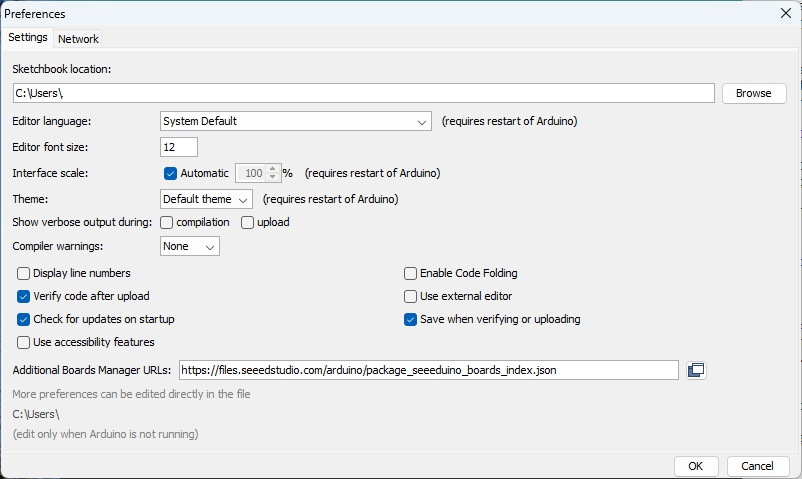
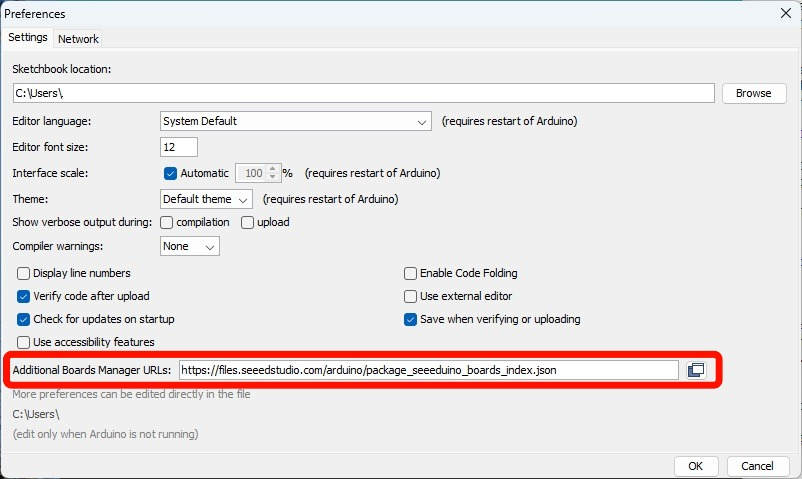
Added ports photo, added highlight for JSON location

Changed region(s): [[0.0, 0.7307, 0.904, 0.8184]]

diff --git a/docs/_pages/software.md b/docs/_pages/software.md
@@ -66,7 +66,7 @@ https://files.seeedstudio.com/arduino/package_seeeduino_boards_index.json
 If you already have another Board Manager URL for a different library, use a ‘,’ to separate the URLS.
 
 <div align="center">
-  <img src="{{ site.url }}/OSSMM/media/software/arduino-json.jpg" style="width: 50%;">
+  <img src="{{ site.url }}/OSSMM/media/software/arduino-json.JPG" style="width: 65%;">
 </div>
 &nbsp;
 
@@ -124,6 +124,11 @@ The code is located under "Micronctroller Code" in the
 
 ### Step 3. Connect the OSSMM Headband to your PC using a USB-C cable
 
+<div align="center">
+  <img src="{{ site.url }}/OSSMM/media/software/ports.JPG" style="width: 50%;">
+</div>
+&nbsp;
+
 ### Step 4. Select 'Tools >> Port >>  COM_X_ (Seeed Xiao nRF52840 Sense)'
 
 Where COM_X_ will be some port number (e.g., COM7)
@@ -155,3 +160,5 @@ Congratulations! You're OSSMM headband is complete. Now it's time to install the
 Android companion app!
 
 ## Android App Code
+
+
